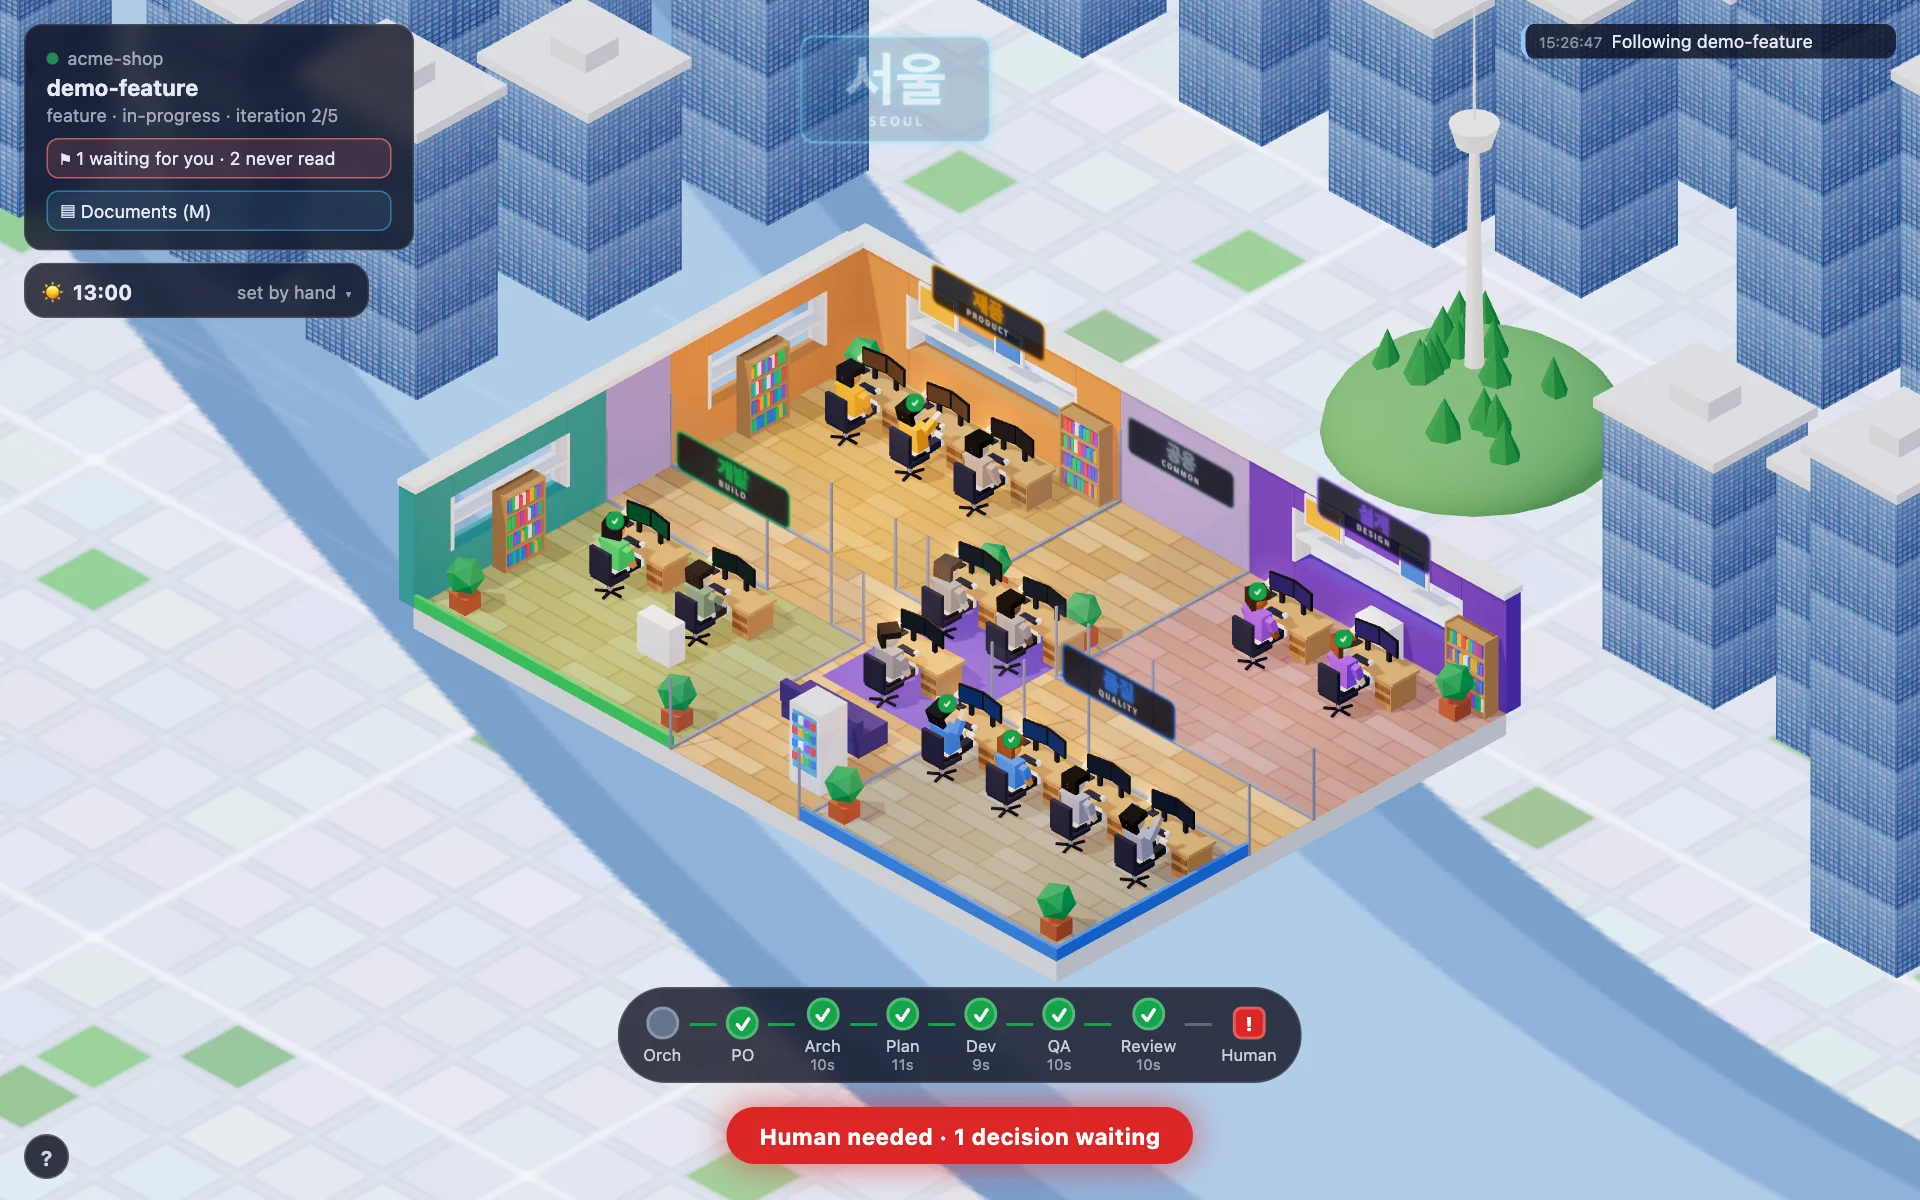
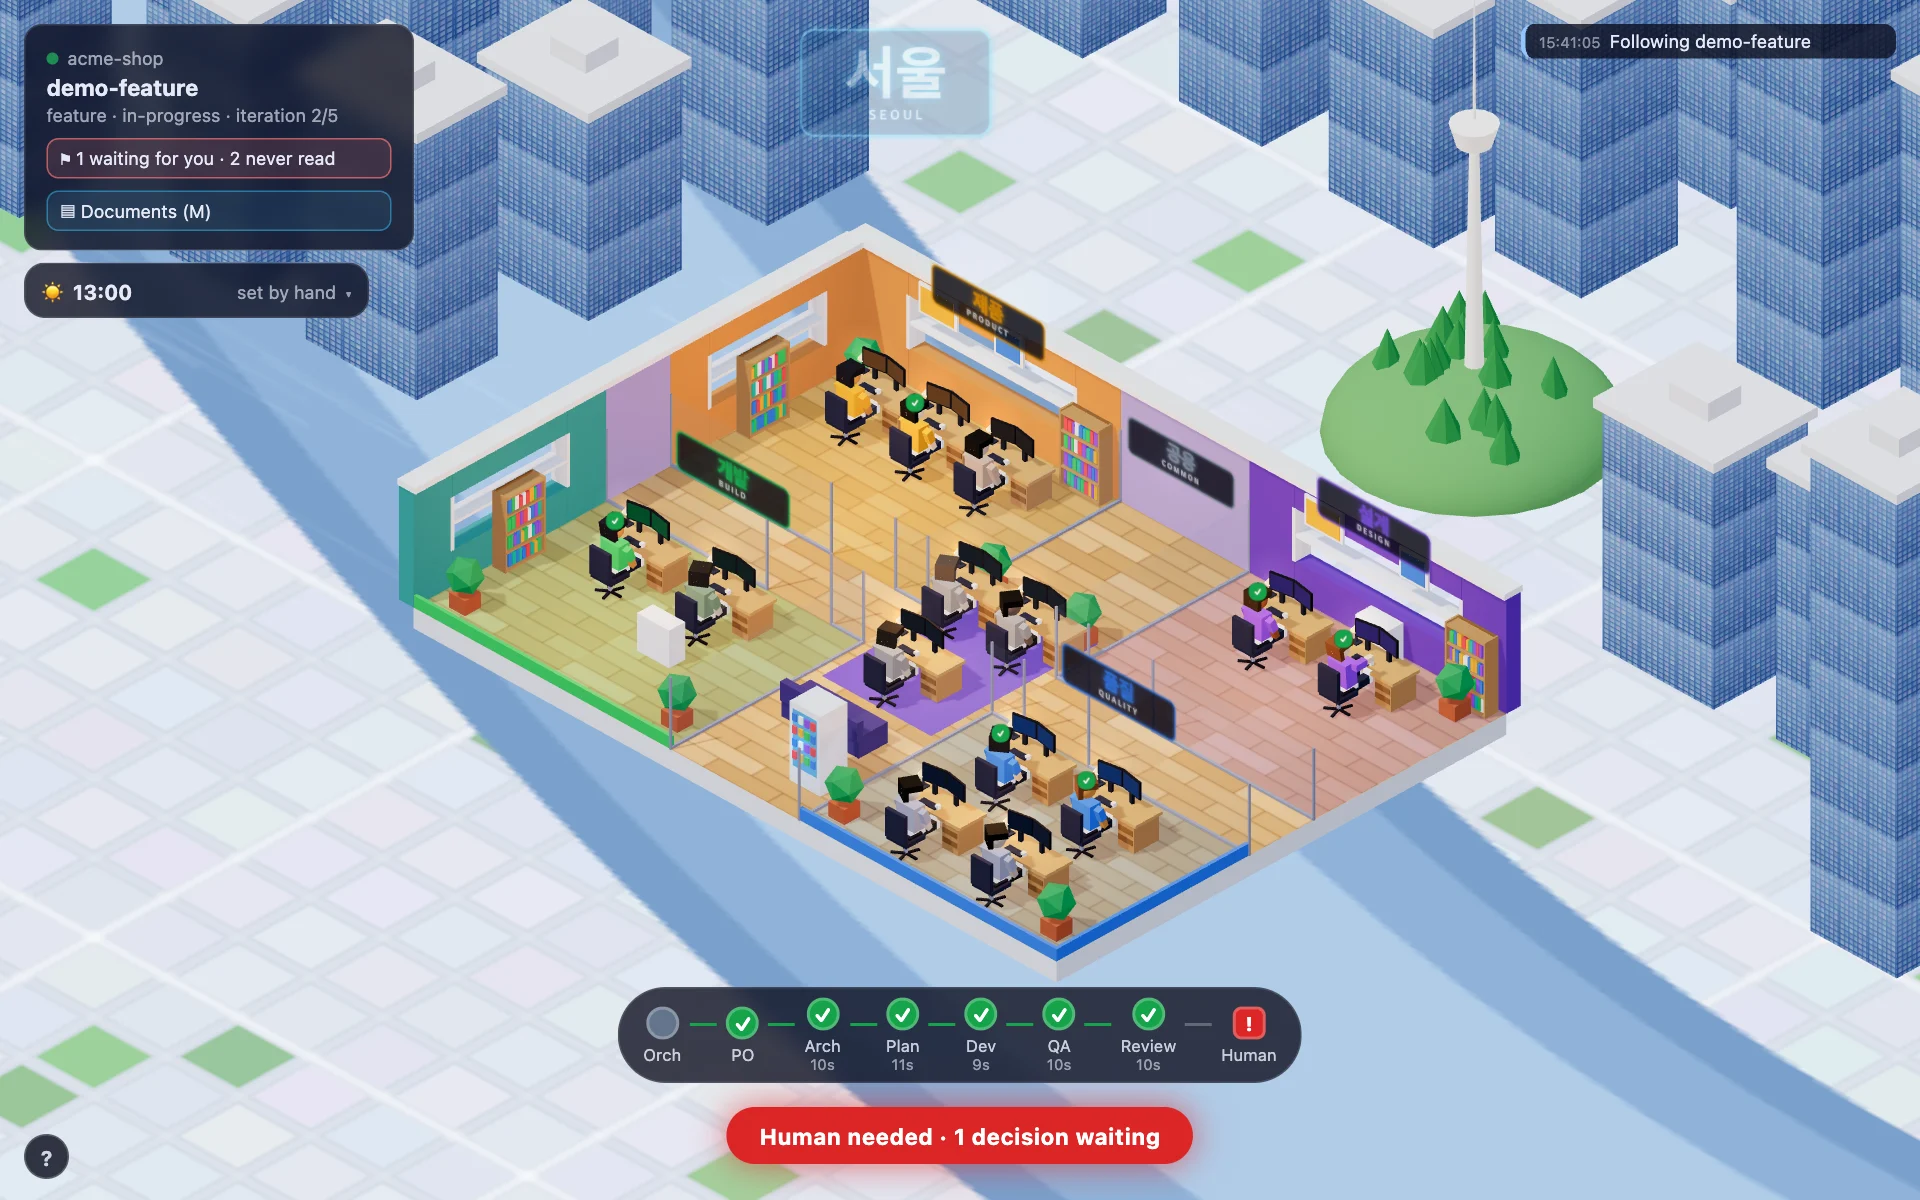
Office floor: walkers go round the furniture, trails stay on the floor
- Route each handoff on a grid round desks, chairs, partitions and furniture, pulled tight into straight segments
- The walker turns to the receiver to hand the folder over
- Trail dots are painted on the floor: desks, chairs and people hide them
- Quality seats two a row, so aisles lead to every chair
- Partitions and furniture positions live in layout.js, shared by the scene and the router
- Tests: no walk crosses an obstacle, every walk arrives before the receiver starts anyway
- Regenerate the screenshots; README caption names QA, not the Reviewer

diff --git a/tools/office/web/layout.js b/tools/office/web/layout.js
@@ -25,21 +25,57 @@ export const TEAM_COLORS = {
 export const SIGN_LABELS = { product: "제품", design: "설계", build: "개발", quality: "품질", common: "공용" };
 export const SIGN_FALLBACK = { product: "product", design: "design", build: "build", quality: "quality", common: "common" };
 
-const DOORS = {
-  product: { x: 6, z: 6.5 },
-  design: { x: 14, z: 6.5 },
-  build: { x: 6, z: 7.5 },
-  quality: { x: 14, z: 7.5 },
-  common: HUB,
-};
+// Glass partitions between the rooms: [x1, z1, x2, z2, doorway], the doorway being the open span along the line.
+export const PARTITIONS = [
+  [0, 6, 8, 6, [5, 7]],
+  [8, 0, 8, 6],
+  [12, 6, 20, 6, [13, 15]],
+  [12, 0, 12, 6],
+  [0, 8, 8, 8, [5, 7]],
+  [8, 8, 8, 14],
+  [12, 8, 20, 8, [13, 15]],
+  [12, 8, 12, 14],
+];
+
+// Where the furniture stands, so that scene.js draws it and the walkers go round it from the same numbers.
+export const PLANTS = [[0.8, 0.8], [11.4, 4.6], [8.6, 4.6], [0.8, 13.2], [19.2, 13.2], [19.2, 0.8], [7.4, 13.2], [12.6, 13.2]];
+export const BOOKSHELVES = [[[7.2, 0.28], "z"], [[19.2, 0.28], "z"], [[0.28, 11], "x"], [[0.28, 3.4], "x"]];
+export const CABINETS = [[5.2, 11.5], [16.4, 0.35]];
+export const SOFA = { x: 10, z: 10.9 };
+export const VENDING = { x: 11.2, z: 12.6 };
+
+const rect = (name, x, z, w, d) => ({ name, x0: x - w / 2, x1: x + w / 2, z0: z - d / 2, z1: z + d / 2 });
+
+// The footprint of everything a walker must go round, desks and chairs aside: they come with the seats.
+export const OBSTACLES = [
+  ...PARTITIONS.flatMap(([x1, z1, x2, z2, gap]) => {
+    const horizontal = z1 === z2;
+    const lo = horizontal ? Math.min(x1, x2) : Math.min(z1, z2);
+    const hi = horizontal ? Math.max(x1, x2) : Math.max(z1, z2);
+    return (gap ? [[lo, gap[0]], [gap[1], hi]] : [[lo, hi]])
+      .filter(([a, b]) => b > a)
+      .map(([a, b]) => (horizontal ? rect("partition", (a + b) / 2, z1, b - a, 0.1) : rect("partition", x1, (a + b) / 2, 0.1, b - a)));
+  }),
+  ...PLANTS.map(([x, z]) => rect("plant", x, z, 0.8, 0.8)), // the leaves spread wider than the pot
+  ...BOOKSHELVES.map(([[x, z], facing]) => (facing === "z" ? rect("bookshelf", x, z, 1.2, 0.42) : rect("bookshelf", x, z, 0.42, 1.2))),
+  ...CABINETS.map(([x, z]) => rect("cabinet", x, z, 1.0, 0.5)),
+  { name: "sofa", x0: SOFA.x - 1.2, x1: SOFA.x + 1.2, z0: SOFA.z - 0.45, z1: SOFA.z + 0.5 },
+  rect("vending machine", VENDING.x, VENDING.z, 0.95, 0.85),
+];
+
+const DESK = { w: 1.9, d: 0.85 };
+const CHAIR = { w: 0.62, front: -0.15, back: 0.45 }; // around seat.z: 0.6 deep, the back towards the camera
+const CLEARANCE = 0.22; // how far a walker's middle keeps from anything: half a body and its arms
+const STEP = 0.1; // the grid the walkers' routes are searched on
 
 // roleTeams: { role: team }, as sent by the server. Returns the seats and the paths.
 export function createLayout(roleTeams) {
   const byTeam = {};
   for (const [role, team] of Object.entries(roleTeams)) (byTeam[team] ||= []).push(role);
 
-  // A desk is 1.9 wide: a row holds as many as fit side by side. The hub is only 4 wide, so it seats two a row.
-  const PER_ROW = { common: 2 };
+  // A desk is 1.9 wide: a row holds as many as fit side by side. The hub is only 4 wide, so it seats two a row;
+  // quality, whose doorway is behind its desks, seats two a row too, so that aisles lead to every chair.
+  const PER_ROW = { common: 2, quality: 2 };
   const ROW_STEP = 2.8; // the depth of a row: desk, chair and the room to walk past
   const DESK_W = 1.95; // a desk and a hand of room
   const seats = new Map();
@@ -57,30 +93,137 @@ export function createLayout(roleTeams) {
       // Desk against the back of the room, the agent sits south of it facing north (-z):
       // the camera sees the agent's back and the screen over the desk.
       const seat = { x, z: room.z + 2.4 + row * ROW_STEP, deskZ: room.z + 1.4 + row * ROW_STEP, rotY: Math.PI, team, row };
-      // A seat behind another row cannot walk north through it: it leaves by the side, then north.
-      if (row > 0) seat.exit = [{ x, z: seat.z + 0.9 }, { x: room.x + room.w - 0.45, z: seat.z + 0.9 }, { x: room.x + room.w - 0.45, z: HUB.z }];
       seats.set(role, seat);
     });
   }
 
   const seatOf = (role) => seats.get(role);
-  const doorOf = (team) => DOORS[team];
-  const front = (seat) => seat.exit ?? [{ x: seat.x, z: seat.z + 0.9 }];
 
-  // Straight segments only: out of the desk, door, hub, door, in front of the target desk.
-  function walkPath(fromRole, toRole) {
-    const a = seatOf(fromRole);
-    const b = seatOf(toRole);
-    const points = [
-      { x: a.x, z: a.z },
-      ...front(a),
-      doorOf(a.team),
-      HUB,
-      doorOf(b.team),
-      ...[...front(b)].reverse(),
-    ];
-    return points.filter((p, i) => i === 0 || p.x !== points[i - 1].x || p.z !== points[i - 1].z);
+  const deskOf = (seat) => rect("desk", seat.x, seat.deskZ, DESK.w, DESK.d);
+  const chairOf = (seat) => ({ name: "chair", x0: seat.x - CHAIR.w / 2, x1: seat.x + CHAIR.w / 2, z0: seat.z + CHAIR.front, z1: seat.z + CHAIR.back });
+  const W = Math.round(FLOOR.w / STEP);
+  const D = Math.round(FLOOR.d / STEP);
+  const routes = new Map(); // from role: the walkable grid and the distances from its seat
+
+  // Everything solid but the walker's own chair, which it gets up from.
+  function freeTest(fromRole) {
+    const solid = [...OBSTACLES];
+    for (const [role, seat] of seats) {
+      solid.push(deskOf(seat));
+      if (role !== fromRole) solid.push(chairOf(seat));
+    }
+    const c = CLEARANCE;
+    return (x, z) => x > c && x < FLOOR.w - c && z > c && z < FLOOR.d - c
+      && !solid.some((o) => x > o.x0 - c && x < o.x1 + c && z > o.z0 - c && z < o.z1 + c);
   }
 
-  return { FLOOR, ROOMS, HUB, seats, seatOf, doorOf, walkPath };
+  // Dijkstra over the grid from the walker's seat, eight neighbours: cheap enough for a 200 x 140 floor.
+  function routeFrom(fromRole) {
+    if (routes.has(fromRole)) return routes.get(fromRole);
+    const free = freeTest(fromRole);
+    const seat = seatOf(fromRole);
+    const cell = (x, z) => Math.round(z / STEP - 0.5) * W + Math.round(x / STEP - 0.5);
+    const centre = (i) => ({ x: ((i % W) + 0.5) * STEP, z: (Math.floor(i / W) + 0.5) * STEP });
+    const open = new Uint8Array(W * D);
+    for (let i = 0; i < W * D; i++) {
+      const p = centre(i);
+      open[i] = free(p.x, p.z) ? 1 : 0;
+    }
+    const dist = new Float64Array(W * D).fill(Infinity);
+    const prev = new Int32Array(W * D).fill(-1);
+    const start = cell(seat.x, seat.z);
+    open[start] = 1;
+    dist[start] = 0;
+    const heap = [[0, start]];
+    const push = (item) => {
+      heap.push(item);
+      for (let i = heap.length - 1; i > 0;) {
+        const up = (i - 1) >> 1;
+        if (heap[up][0] <= heap[i][0]) break;
+        [heap[up], heap[i]] = [heap[i], heap[up]];
+        i = up;
+      }
+    };
+    const pop = () => {
+      const top = heap[0];
+      const last = heap.pop();
+      if (heap.length) {
+        heap[0] = last;
+        for (let i = 0; ;) {
+          const l = 2 * i + 1;
+          const r = l + 1;
+          let m = i;
+          if (l < heap.length && heap[l][0] < heap[m][0]) m = l;
+          if (r < heap.length && heap[r][0] < heap[m][0]) m = r;
+          if (m === i) break;
+          [heap[m], heap[i]] = [heap[i], heap[m]];
+          i = m;
+        }
+      }
+      return top;
+    };
+    while (heap.length) {
+      const [d, i] = pop();
+      if (d > dist[i]) continue;
+      const cx = i % W;
+      const cz = Math.floor(i / W);
+      for (const [dx, dz] of [[1, 0], [-1, 0], [0, 1], [0, -1], [1, 1], [1, -1], [-1, 1], [-1, -1]]) {
+        const nx = cx + dx;
+        const nz = cz + dz;
+        if (nx < 0 || nz < 0 || nx >= W || nz >= D) continue;
+        const j = nz * W + nx;
+        // A diagonal step may not cut the corner of an obstacle.
+        if (!open[j] || (dx && dz && (!open[cz * W + nx] || !open[nz * W + cx]))) continue;
+        const nd = d + (dx && dz ? Math.SQRT2 : 1);
+        if (nd < dist[j]) {
+          dist[j] = nd;
+          prev[j] = i;
+          push([nd, j]);
+        }
+      }
+    }
+    const route = { free, dist, prev, centre };
+    routes.set(fromRole, route);
+    return route;
+  }
+
+  // The straight line from a to b keeps clear of everything.
+  const clear = (free, a, b) => {
+    const n = Math.max(1, Math.ceil(Math.hypot(b.x - a.x, b.z - a.z) / 0.05));
+    for (let k = 1; k < n; k++) if (!free(a.x + ((b.x - a.x) * k) / n, a.z + ((b.z - a.z) * k) / n)) return false;
+    return true;
+  };
+
+  // Out of the chair, round the desks, chairs, partitions and furniture, to stand next to the receiver's chair.
+  // The route found on the grid is pulled tight into a few straight segments, the way a person would walk it.
+  function walkPath(fromRole, toRole) {
+    const { free, dist, prev, centre } = routeFrom(fromRole);
+    const b = seatOf(toRole);
+    let goal = -1;
+    let best = Infinity;
+    for (let i = 0; i < dist.length; i++) {
+      if (dist[i] === Infinity) continue;
+      const p = centre(i);
+      const near = Math.hypot(p.x - b.x, p.z - b.z);
+      if (near < best - 1e-9) {
+        best = near;
+        goal = i;
+      }
+    }
+    const cells = [];
+    for (let i = goal; i !== -1; i = prev[i]) cells.push(centre(i));
+    cells.reverse();
+    const a = seatOf(fromRole);
+    cells[0] = { x: a.x, z: a.z };
+    const path = [cells[0]];
+    for (let i = 0; i < cells.length - 1;) {
+      let j = cells.length - 1;
+      while (j > i + 1 && !clear(free, cells[i], cells[j])) j--;
+      path.push(cells[j]);
+      i = j;
+    }
+    return path.map((p) => ({ x: Math.round(p.x * 100) / 100, z: Math.round(p.z * 100) / 100 }));
+  }
+
+  return { FLOOR, ROOMS, HUB, seats, seatOf, walkPath };
 }

diff --git a/tools/office/web/scene.js b/tools/office/web/scene.js
@@ -1,6 +1,6 @@
 // The static floor: building, furniture, signs, night city. No workflow knowledge here.
 import * as THREE from "three";
-import { FLOOR, ROOMS, HUB, TEAM_COLORS, SIGN_LABELS, SIGN_FALLBACK } from "./layout.js";
+import { BOOKSHELVES, CABINETS, FLOOR, HUB, PARTITIONS, PLANTS, ROOMS, SIGN_FALLBACK, SIGN_LABELS, SOFA, TEAM_COLORS, VENDING } from "./layout.js";
 import { daylightAt, mix, skyGradient, sunArc, twilightAt } from "./daylight.js";
 import { createOutside } from "./outside.js";
 import { hangulAvailable, mulberry32, signTexture } from "./textures.js";
@@ -320,14 +320,7 @@ export function createScene(canvas, layout) {
       }
     }
   };
-  part(0, 6, 8, 6, [5, 7]);
-  part(8, 0, 8, 6);
-  part(12, 6, 20, 6, [13, 15]);
-  part(12, 0, 12, 6);
-  part(0, 8, 8, 8, [5, 7]);
-  part(8, 8, 8, 14);
-  part(12, 8, 20, 8, [13, 15]);
-  part(12, 8, 12, 14);
+  for (const partition of PARTITIONS) part(...partition);
 
   // Stations: one desk and chair per role.
   const stations = new Map();
@@ -339,20 +332,20 @@ export function createScene(canvas, layout) {
 
   // Furniture that makes it an office.
   // Past the hub's second row of desks (z 8 to 10): the sofa and the vending machine wait in the corridor.
-  const VENDING_Z = 12.6;
-  const vending = box(0.95, 2.1, 0.85, 0xe6ebf5, [11.2, 1.05, VENDING_Z]);
+  const VENDING_Z = VENDING.z;
+  const vending = box(0.95, 2.1, 0.85, 0xe6ebf5, [VENDING.x, 1.05, VENDING_Z]);
   const front = new THREE.Mesh(new THREE.PlaneGeometry(0.75, 1.5), new THREE.MeshStandardMaterial({ color: 0x20324a, emissive: 0x4fb4ff, emissiveIntensity: 0.6 }));
-  front.position.set(11.2, 1.2, VENDING_Z + 0.43);
+  front.position.set(VENDING.x, 1.2, VENDING_Z + 0.43);
   scene.add(vending, front);
   const snacks = [0xe8505b, 0xf5a623, 0x22c55e, 0x3b82f6, 0xf1f5f9, 0x8b5cf6];
   for (let row = 0; row < 4; row++) {
-    for (let col = 0; col < 4; col++) scene.add(box(0.12, 0.2, 0.05, snacks[(row * 3 + col) % snacks.length], [10.92 + col * 0.19, 0.78 + row * 0.33, VENDING_Z + 0.46], { emissive: 0x111111 }));
+    for (let col = 0; col < 4; col++) scene.add(box(0.12, 0.2, 0.05, snacks[(row * 3 + col) % snacks.length], [VENDING.x - 0.28 + col * 0.19, 0.78 + row * 0.33, VENDING_Z + 0.46], { emissive: 0x111111 }));
   }
-  scene.add(glow(0x4fb4ff, 2.6, 0.35, [11.2, 1.2, VENDING_Z + 0.6]));
-  scene.add(bookshelf([7.2, 0.28]), bookshelf([19.2, 0.28]), bookshelf([0.28, 11], "x"), bookshelf([0.28, 3.4], "x"));
-  scene.add(box(1.0, 1.0, 0.5, 0xeef2fa, [5.2, 0.5, 11.5]), box(1.0, 1.0, 0.5, 0xeef2fa, [16.4, 0.5, 0.35]));
-  scene.add(box(2.4, 0.55, 0.9, 0x4a3f82, [10, 0.28, 10.9]), box(2.4, 0.5, 0.2, 0x4a3f82, [10, 0.7, 11.3]));
-  for (const [x, z] of [[0.8, 0.8], [11.4, 4.6], [8.6, 4.6], [0.8, 13.2], [19.2, 13.2], [19.2, 0.8], [7.4, 13.2], [12.6, 13.2]]) scene.add(plant(x, z));
+  scene.add(glow(0x4fb4ff, 2.6, 0.35, [VENDING.x, 1.2, VENDING_Z + 0.6]));
+  for (const [at, facing] of BOOKSHELVES) scene.add(bookshelf(at, facing));
+  for (const [x, z] of CABINETS) scene.add(box(1.0, 1.0, 0.5, 0xeef2fa, [x, 0.5, z]));
+  scene.add(box(2.4, 0.55, 0.9, 0x4a3f82, [SOFA.x, 0.28, SOFA.z]), box(2.4, 0.5, 0.2, 0x4a3f82, [SOFA.x, 0.7, SOFA.z + 0.4]));
+  for (const [x, z] of PLANTS) scene.add(plant(x, z));
   for (const [x, w] of [[2.4, 1.2], [4.6, 0.9], [14.4, 1.2], [17.2, 0.9]]) {
     scene.add(box(w, 0.8, 0.06, 0xf4f6fb, [x, 2.55, 0.06]), box(w - 0.16, 0.64, 0.02, [0xe8505b, 0x3b82f6, 0xf5a623, 0x22c55e][Math.round(x) % 4], [x, 2.55, 0.1], { emissive: 0x111111 }));
   }

diff --git a/tools/office/web/agents.js b/tools/office/web/agents.js
@@ -221,7 +221,8 @@ export function createAgents(scene, layout, stations) {
   function makeTrail(path, color) {
     const trail = new THREE.Group();
     const dot = new THREE.CircleGeometry(0.11, 12);
-    const material = new THREE.MeshBasicMaterial({ color, transparent: true, opacity: 0.85, depthTest: false, toneMapped: false });
+    // Painted on the floor: desks, chairs and people hide it, as they would hide a mark on the ground.
+    const material = new THREE.MeshBasicMaterial({ color, transparent: true, opacity: 0.85, depthWrite: false, toneMapped: false, polygonOffset: true, polygonOffsetFactor: -2, polygonOffsetUnits: -2 });
     for (let i = 1; i < path.length; i++) {
       const a = path[i - 1];
       const b = path[i];
@@ -322,6 +323,9 @@ export function createAgents(scene, layout, stations) {
       walk.idx += 1;
       if (walk.idx >= path.length) {
         if (walk.phase === "out") {
+          // Standing beside the receiver's chair: turn to it to hand the folder over.
+          const receiver = layout.seats.get(walk.to);
+          agent.root.rotation.y = Math.atan2(receiver.x - target.x, receiver.z - target.z);
           walk.phase = "pause";
           walk.pause = HANDOVER_PAUSE;
           deferred.delete(walk.to);

diff --git a/tools/office/README.md b/tools/office/README.md
@@ -29,13 +29,13 @@ It needs Python 3 and a browser; nothing to install. The server listens on `127.
 
 ![Dawn, with the journal of events at the top right and an agent walking a handoff](docs/journal-dawn.webp)
 
-*Dawn, while a run is under way: the journal lists what just happened, and the Reviewer walks the folder back to the Developer after a NO-GO.*
+*Dawn, while a run is under way: the journal lists what just happened, and QA walks the folder back to the Developer after a NO-GO.*
 
 - **Pipeline strip:** the roles of the run in order, colored by state and marked with a glyph (`…` working, `✓` done, `?` blocked, `!` needs a human), with the active one pulsing and a final `Merge` or `Human` gate. Click a step to open that role.
 - **Run card:** the project, the run, its iteration counter, and a switcher when several runs exist (pick one by hand, click again to follow the newest).
 - **Journal:** the last events (a role started, finished, is blocked, a verdict, an iteration), at the top right.
 - **Banner:** `Ready to merge`, `Human needed`, `<role> is blocked`, or who is at work. The tab title carries the same state.
-- **Agents:** the roles of the run stand out and the others fade to grey. A glyph above each head shows its state (`…` working, `✓` done), a ring under whoever is at work pulses in the color of its state, and a large `?` or `!` says a role is blocked or waits for a human. A walking agent says who it hands over to, and leaves a dotted trail on the floor in the color of the receiving team (red after a NO-GO); once the folder is handed over it walks back to its desk empty-handed, without the badge, even if the next handoff has begun.
+- **Agents:** the roles of the run stand out and the others fade to grey. A glyph above each head shows its state (`…` working, `✓` done), a ring under whoever is at work pulses in the color of its state, and a large `?` or `!` says a role is blocked or waits for a human. A walking agent says who it hands over to, goes round the desks, chairs, partitions and furniture, and leaves a dotted trail on the floor in the color of the receiving team (red after a NO-GO), which whatever stands on it hides; once the folder is handed over it walks back to its desk empty-handed, without the badge, even if the next handoff has begun.
 - **Rooms:** each is named in Hangul with its Latin name under it, hung facing the desks: on the north wall for product and design, on top of the glass partition at the back of build and quality, which have no wall there, and low on the hub.
 
 ## Day and night
